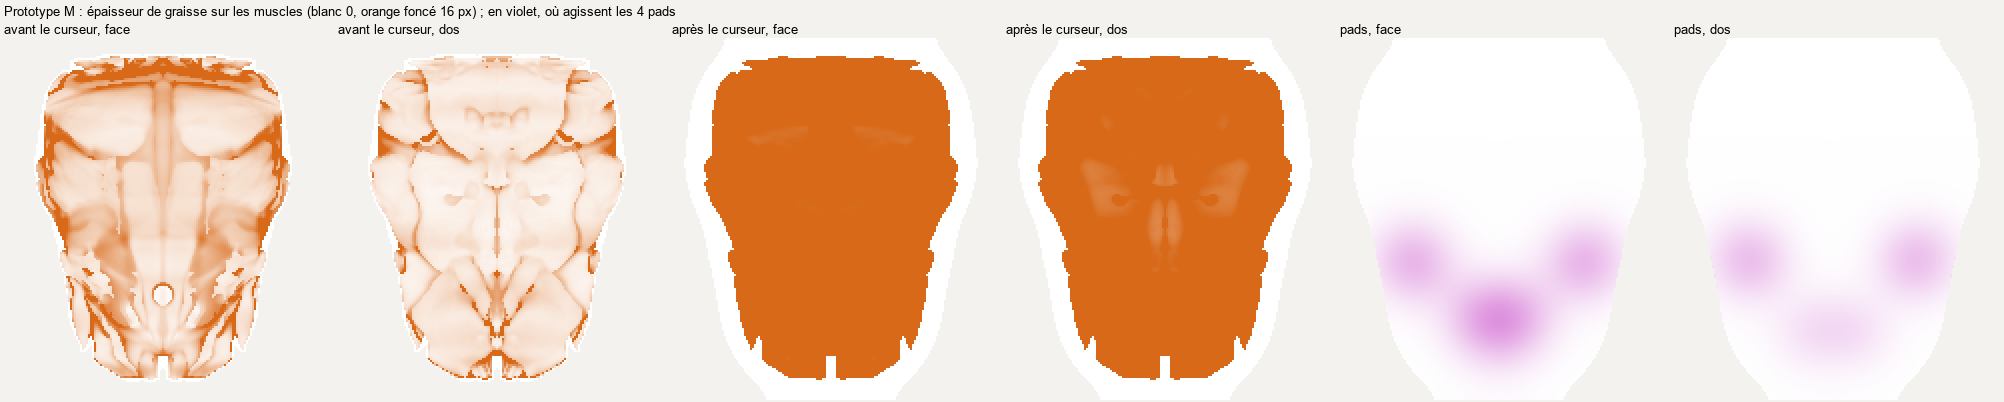
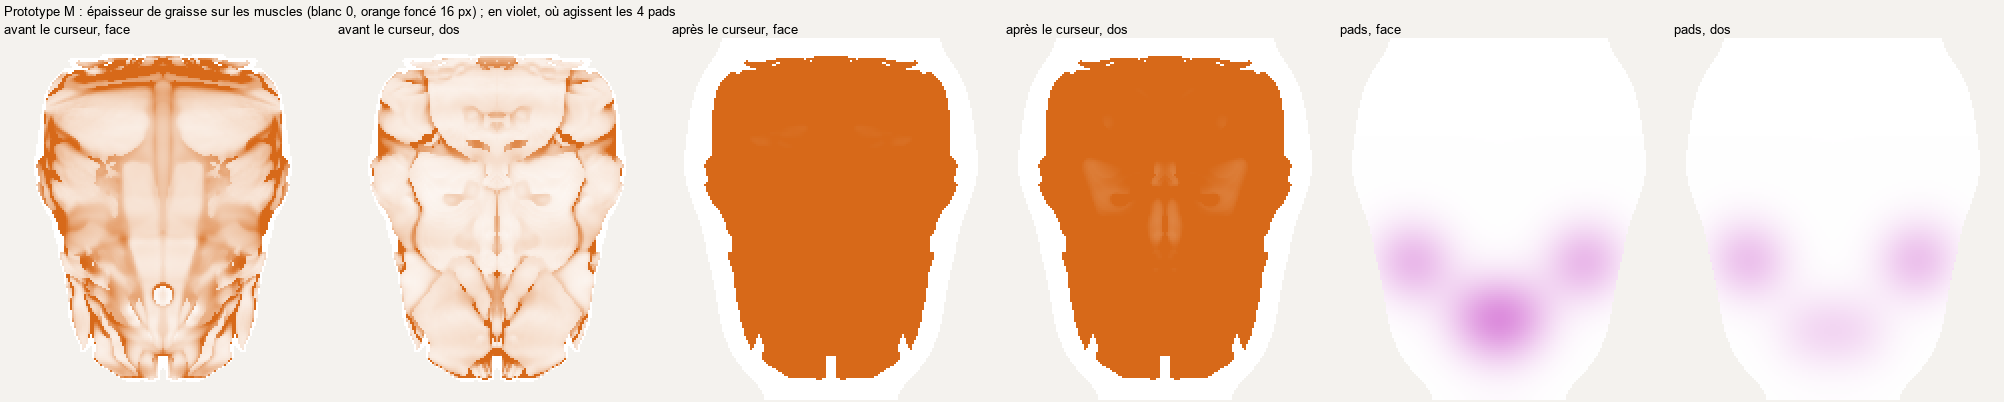
Body 3D: prototypes M1 (athletic, WDI as drawn, 12 % fat) and M (average, 23 % fat, superficial muscles at 75 to 90 % of M1's relief); bone counted as a tissue share of its volume (marrow apart); both at muscle 42 % and bone 4 %

diff --git a/Art/work/transfer-proto/fable-crack/proto.py b/Art/work/transfer-proto/fable-crack/proto.py
@@ -17,6 +17,7 @@ import stack3d as s
 DENS = {"bone": 1.85, "viscera": 1.04, "viscera (thorax)": 0.45, "muscle": 1.06, "fat pads": 0.92, "fat": 0.92, "rest": 1.10}   # g/cm3
 # the thoracic cavity holds the lungs (about 0.3 g/cm3, mostly air) and the heart: 0.45 on average, above the diaphragm
 DIAPHRAGM = 300.0
+DENS_MARROW = 1.0
 
 
 def carry(K, a):
@@ -56,6 +57,10 @@ def composition(F, d, h):
         vox["viscera (thorax)"] = vox["viscera"] & F["thorax"]
         vox["viscera"] = vox["viscera"] & ~F["thorax"]
     mass = {k: float((m & skin).sum()) * h ** 3 * DENS[k] for k, m in vox.items()}
+    q = F.get("bone_frac", 1.0)                                  # share of a bone's volume that is bone tissue; the rest is marrow
+    if q < 1.0:
+        vb = mass["bone"] / DENS["bone"]
+        mass["bone"] = q * vb * DENS["bone"]; mass["rest"] += (1.0 - q) * vb * DENS_MARROW
     tot = sum(mass.values())
     return {k: 100.0 * v / tot for k, v in mass.items()}
 
@@ -64,9 +69,16 @@ def composition(F, d, h):
 # shoulders = widest row (deltoid stump, 268), upper chest = under the armpits (298), waist = navel (358), pelvis = hips (382).
 WROWS = {"shoulders": 268.0, "upper chest": 298.0, "waist": 358.0, "pelvis": 382.0}
 # M of 2026-11-17 (second sheet): fat 23 %, muscle 42 %, bone 4 %; shoulders 43 cm, upper chest 34, waist 31, pelvis 33
-PROTO = {"M": {"shoulders": 1.0, "upper chest": 0.79, "waist": 0.72, "pelvis": 0.77}}
+PROTO = {"M": {"shoulders": 1.0, "upper chest": 0.79, "waist": 0.72, "pelvis": 0.77},
+         "M1": None}   # M1 (Virginie 2026-11-17): the athletic / écorché preset, WDI Male average as drawn: its own widths
 # Solved together by solve_comp: fat by the slider, bone by the shell counted, muscle by the thickening of the muscles.
-COMP = {"M": {"fat": 23.0, "muscle": 42.0, "bone": 4.0}}
+COMP = {"M": {"fat": 23.0, "muscle": 42.0, "bone": 4.0},
+        "M1": {"fat": 12.0, "muscle": 42.0, "bone": 4.0}}   # M1: WDI read as lean / fit, about 12 % fat
+# body type of each prototype. M (average): the superficial muscles at 80 to 90 % of the relief of M1, the upper trapezius
+# toned down most, the rectus abdominis not reinforced; bones and deep muscles unchanged (Virginie 2026-11-17)
+TY = {"M": dict(s.TYPES["Male"], abs=1.0, relief={"pectoralis major": 0.85, "latissimus dorsi": 0.85, "trapezius (upper)": 0.75,
+                                                   "trapezius (middle, lower)": 0.9, "gluteus maximus": 0.9, "external oblique": 0.9}),
+      "M1": s.TYPES["Male"]}
 
 
 def width_scale(G, d, target):
@@ -85,7 +97,7 @@ def width_scale(G, d, target):
 #   cage: rows of the thorax stretched down: the costal margin (334) goes to 334 + cage, the crotch (422) stays;
 #   pecs: the front of the chest (rows 250..345, x < 85) lifted by pecs px, most at the under-chest fold;
 #   glutes: the back of the buttocks pushed back by glutes px and up by a third of it, round, centred on each cheek.
-SHAPE = {"M": dict(cage=12.0, pecs=12.0, glutes=7.0)}
+SHAPE = {"M": dict(cage=12.0, pecs=12.0, glutes=7.0), "M1": dict(cage=0.0, pecs=0.0, glutes=0.0)}
 
 
 def sstep(v):
@@ -146,15 +158,14 @@ def bisect(f, target, lo, hi, n=14):
 def solve_comp(G, F, d00, zc_rows, target):
     """Fat, muscle and bone shares solved together (Virginie 2026-11-17: 'solve them'), the silhouette kept.
     fat: the global slider t over the smooth envelope, with the pads (as in solve_fat).
-    bone: a bone is counted as its cortical and trabecular shell of thickness c px; the marrow inside is internal tissue
-          (BodyParts3D bones are solid, which counted them all at the density of compact bone).
+    bone: only a share c of a bone's volume is bone tissue (cortical shell and trabeculae); the rest is marrow, counted
+          as internal tissue (BodyParts3D bones are solid, which counted them all at the density of compact bone).
     muscle: every muscle thickened by m px into the room under the skin that is not bone (the gaps between pieces, the
           inside of the envelope): the muscles fill the body instead of floating in unmodelled tissue.
     The three are solved in turn, four rounds. Returns grow, t, near, composition, ref, m, c."""
     near, dd = fat_fields(G, F, d00, zc_rows)
     ins = d00 < 0; envin = dd < 0
     bone0 = F["bone"] < 0
-    bdepth = ndi.distance_transform_edt(bone0) * G.h
     mus0 = (F["muscle"] < 0) & ~bone0
     mdist = ndi.distance_transform_edt(~mus0) * G.h
     room = ins & ~bone0
@@ -163,18 +174,18 @@ def solve_comp(G, F, d00, zc_rows, target):
 
     def comp(m, c, t):
         dt = grow(t)
-        F2 = dict(F); F2["bone_vox"] = bone0 & (bdepth <= c); F2["muscle_vox"] = mus0 | (room & (mdist <= m))
+        F2 = dict(F); F2["bone_frac"] = c; F2["muscle_vox"] = mus0 | (room & (mdist <= m))
         F2["grown"] = (dt < 0) & ~envin; F2["thorax"] = thorax
         return composition(F2, dt, G.h)
-    m, c, t = 0.0, 40.0, 0.0
+    m, c, t = 0.0, 1.0, 0.0
     for _ in range(4):
         t = bisect(lambda x: (lambda q: q["fat"] + q["fat pads"])(comp(m, c, x)), target["fat"], 0.0, 25.0)
-        c = bisect(lambda x: comp(m, x, t)["bone"], target["bone"], 0.0, 20.0)
+        c = bisect(lambda x: comp(m, x, t)["bone"], target["bone"], 0.0, 1.0)
         m = bisect(lambda x: comp(x, c, t)["muscle"], target["muscle"], 0.0, 40.0)
     t = bisect(lambda x: (lambda q: q["fat"] + q["fat pads"])(comp(m, c, x)), target["fat"], 0.0, 25.0)
     xm = np.nan_to_num(np.nanmax(s.last_cross(d00, 1, G.x), axis=1))
     ref = float(np.interp(WROWS["shoulders"], G.r, xm))
-    print(f"solved: fat layer {t:.2f} px ({100 * t / ref:.1f} % of the shoulder half width), bone shell {c:.2f} px, "
+    print(f"solved: fat layer {t:.2f} px ({100 * t / ref:.1f} % of the shoulder half width), bone tissue {100 * c:.0f} % of the bone volume, "
           f"muscles thickened {m:.2f} px")
     return grow, t, near, comp(m, c, t), ref, m, c
 
@@ -282,9 +293,12 @@ def proto_board(name, h):
     """Prototype vs WDI: the Male stack (skin, fat, lean) scaled row by row in width to the prototype's ratios, drawn
     by stack3d.board next to the WDI Male (WDI | stack in WDI style | outlines)."""
     import average as av
-    K = s.make("Male", h)
+    K = s.make("Male", h, ty=TY[name])
     G, T = K["G"], K["T"]
-    rows, k = width_scale(G, K["d"], PROTO[name])
+    if PROTO[name] is None:                                    # the prototype keeps the widths of the WDI body
+        rows, k = list(WROWS.values()), [1.0] * len(WROWS)
+    else:
+        rows, k = width_scale(G, K["d"], PROTO[name])
     print(f"{name}: width scale at {rows}: {[round(x, 3) for x in k]}")
     Go = s.Grid(G.h, x1=float(G.x[-1]) * max(max(k), 1.0) + 4.0, r0=float(G.r[0]), r1=float(G.r[-1]) + 8.0,
                 z0=float(G.z[0]) - 8.0, z1=float(G.z[-1]))
@@ -300,7 +314,7 @@ def proto_board(name, h):
     _xm = np.nan_to_num(np.nanmax(s.last_cross(K["d"], 1, G.x), axis=1))
     print("half widths after the fat:", {n: round(float(np.interp(r, G.r, _xm)), 1) for n, r in WROWS.items()}, "grid x max", float(G.x[-1]))
     fat_map(G, d00, K["d"], near, F["lean"], name)
-    for it in range(4):                                        # the shape edits move the rows: re-solve the widths on the result
+    for it in range(4 if tgt is not None else 0):              # the shape edits move the rows: re-solve the widths on the result
         d, o = shaped(Go, G, [(K["d"], 1), (K["owner"], 0)], rows, k, (T.rows, T.zc), SHAPE[name])
         xm = np.nan_to_num(np.nanmax(s.last_cross(d, 1, Go.x), axis=1))
         hw = lambda r: float(np.interp(r, Go.r, xm))

diff --git a/Art/work/transfer-proto/fable-crack/stack3d.py b/Art/work/transfer-proto/fable-crack/stack3d.py
@@ -555,6 +555,8 @@ def build_male(G, T, prm=MALE, ty=None):
     # none, or with HAND_MUSCLES=1.
     use_lib = os.environ.get("HAND_MUSCLES", "0") != "1"
 
+    relief = lambda name: next((f for pre, f in ty.get("relief", {}).items() if name.startswith(pre)), 1.0)
+
     def lib(name, colour, k=1.5, km=1.0, holes=(), leg_row=None):
         if not use_lib:
             return False
@@ -562,6 +564,9 @@ def build_male(G, T, prm=MALE, ty=None):
         p = bp3d_torso.prim(name)
         if p is None:
             return False
+        rf = relief(name)
+        if rf < 1.0:                                           # a superficial muscle with less relief: thinned on every side
+            p = (lambda X, R, Z, fn=p[0], e=(1.0 - rf) * RELIEF_PX: fn(X, R, Z) + e, p[1], p[2])
         top = (lambda X, R, Z: np.broadcast_to(R - prm["neck_cut"], np.broadcast_shapes(X.shape, R.shape, Z.shape)).astype(np.float32),
                np.array([-200.0, 0.0, 0.0]), np.array([200.0, prm["neck_cut"], 500.0]))
         # the library muscles run on into the limbs (pectoral and teres to the humerus, hip flexors and glutes to the
@@ -661,7 +666,7 @@ def build_male(G, T, prm=MALE, ty=None):
     # fleshy only above and lateral of a diagonal from T8 by the spine (178 deg, row 268) to the iliac crest at the flank
     # (118 deg, row 342): below and medial of it the lat is its flat lumbar aponeurosis
     flesh = lambda u, v: sstep(((178.0 - 60.0 * (v - 268.0) / 74.0) - u / th) / 12.0)
-    S.lens("latissimus dorsi", "muscle", "W", deg(lat), 3.5, 9.0, colour=COL["lat"], prof=1.25, span=8.0, rnd=1,
+    S.lens("latissimus dorsi", "muscle", "W", deg(lat), 3.5 * relief("latissimus dorsi"), 9.0, colour=COL["lat"], prof=1.25, span=8.0, rnd=1,
            mod=lambda u, v: (0.7 + 0.3 * flesh(u, v)) * (1.0 + 0.7 * np.exp(-((u / th - 104.0) / 14.0) ** 2 - ((v - 276.0) / 18.0) ** 2)))   # thickest in the posterior axillary fold
 
     trap = [(-1, 204), (30, 204), (62, 208), (78, 212), (64, 222), (40, 224), (22, 244), (9, 272), (-1, 302)]
@@ -767,6 +772,7 @@ MUSCLE_ORDER = [
     ("trapezius (middle, lower)", "trapèze, parties moyenne et basse"),
     ("trapezius (upper)", "trapèze, partie haute"),
 ]
+RELIEF_PX = 6.0        # px: how much a superficial muscle is thinned on every side at relief 0 (relief 0.85 = 0.9 px)
 SETTLE_MAX = 6.0       # px: the most a muscle is moved off what lies under it
 SETTLE_SMOOTH = 4.0    # px: how broadly the push spreads, so a muscle moves as a whole instead of being dented
 
@@ -1627,11 +1633,11 @@ def clip_lean(S, G0, G, steps, frame, d, fat, tmin):
     return out
 
 
-def make(body="Male", h=1.0, fit=True, ghost=False, order=1):
+def make(body="Male", h=1.0, fit=True, ghost=False, order=1, ty=None):
     """Build the stack of a body: the lean stack in the Male frame (muscles and pads scaled by the type), the frame
     put on the body by its landmark rows and a broad row-wise affine, the fat solved from the silhouettes, the skin,
-    then the fine fit. Returns everything the boards and the export need."""
-    ty = TYPES[body]
+    then the fine fit. Returns everything the boards and the export need. ty: a body type to use instead of TYPES[body]."""
+    ty = ty or TYPES[body]
     TM = Target("Male")
     T = TM if body == "Male" else Target(body)
     G0 = Grid(h)
